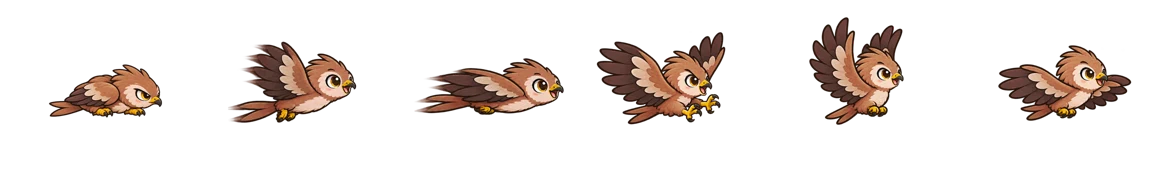
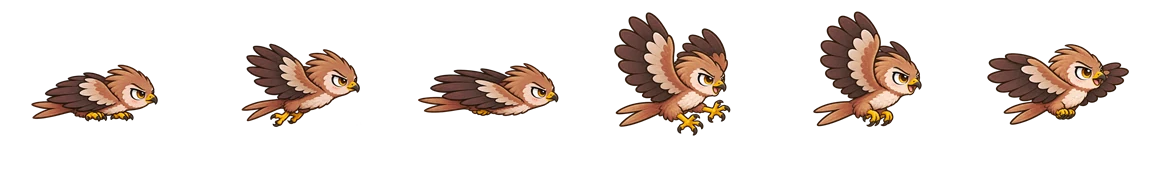
D540：撲擊海漂打擊感加重（GPT 1505）——小鳶撲擊換 v3 臉，撲出時身後拉出速度線，命中加撞擊爆圈 4 格（蓋在小鳶上）與大水花 4 格，三連撲畫面白閃，命中停頓 0.08→0.1 秒。 (#655)
Claude-Session: https://claude.ai/code/session_01HH7aCh2DkeBgrqbKrCUAfc

diff --git a/games/pounce/index.html b/games/pounce/index.html
@@ -67,7 +67,11 @@ const OBJ = { crate: { r: 30, frag: 'crate' }, big: { r: 44, frag: 'crate_large'
 const OIMG = { crate: load('obj_crate.webp'), big: load('obj_crate_large.webp'), bigc: load('obj_crate_large_cracked.webp'), bottles: load('obj_bottles.webp'), net: load('obj_net.webp'), foam: load('obj_foam.webp'), wood: load('obj_driftwood.webp') };
 const FRAG = {}; for (const f of ['crate', 'crate_large', 'bottles', 'net', 'foam', 'driftwood']) FRAG[f] = [0, 1, 2, 3].map((i) => load('frag_' + f + '_' + i + '.webp'));
 const BG = load('bg_sea.webp');
-const CFG = { glide: 300, range: 150, dash: 0.15, kiteH: 118, hitStop: 0.08, comboWin: 1.4 };
+/* D540：打擊感特效（GPT 1505）：撞擊爆圈 4 格（基準 128,128）、大水花 4 格（基準 128,184）、速度線（基準 240,64 向左拉長） */
+const FX = { impact: { img: load('fx_impact.webp'), n: 4, ax: 0.5, ay: 0.5 }, splash: { img: load('fx_splash_big.webp'), n: 4, ax: 0.5, ay: 184 / 256 } }, SPEED = load('fx_speedline.webp');
+let fxs = [];
+function fx(k, x, y, size, dur) { if (calm && k === 'impact') { size *= 0.7; } fxs.push({ k, x, y, size, dur, t: 0 }); }
+const CFG = { glide: 300, range: 150, dash: 0.15, kiteH: 118, hitStop: 0.1, comboWin: 1.4 };      /* D540：命中停頓 0.08→0.1 秒 */
 /* 每段：x,y 為畫面比例；vx,vy 每秒漂多少畫面比例；belt：洋流漂帶（先預告 1.2 秒，一排從一側漂進來） */
 const STAGES = [
   { tip: '按住往木箱拖，看到亮框就放手！', items: [{ k: 'crate', x: 0.5, y: 0.36 }] },
@@ -76,7 +80,7 @@ const STAGES = [
   { tip: '大木箱要撲兩下：第一下撞裂，追上去再一下！', items: [{ k: 'big', x: 0.55, y: 0.36 }, { k: 'net', x: 0.22, y: 0.5, vx: 0.04 }, { k: 'bottles', x: 0.8, y: 0.25, vy: 0.03 }] },
   { tip: '看箭頭！洋流要帶一排海漂過來', belt: { dir: 1, y: 0.33, ks: ['crate', 'bottles', 'foam', 'wood', 'net'], speed: 0.09 }, items: [{ k: 'big', x: 0.5, y: 0.55 }] }
 ];
-let W = 0, H = 0, dpr = 1, si = 0, items = [], kite = null, touch = null, parts = [], rings = [], floats = [], shake = 0, stop = 0, sound = true, ac = null, playing = false, cleared = 0, pounces = 0, misses = 0, t0 = 0, combo = 0, comboT = 0, bestCombo = 0, belt = null, nid = 0, clearing = false;
+let flashT = 0, W = 0, H = 0, dpr = 1, si = 0, items = [], kite = null, touch = null, parts = [], rings = [], floats = [], shake = 0, stop = 0, sound = true, ac = null, playing = false, cleared = 0, pounces = 0, misses = 0, t0 = 0, combo = 0, comboT = 0, bestCombo = 0, belt = null, nid = 0, clearing = false;
 function fit() { dpr = Math.min(devicePixelRatio || 1, 2); W = innerWidth; H = innerHeight; cv.width = Math.round(W * dpr); cv.height = Math.round(H * dpr); }
 addEventListener('resize', fit); fit();
 function tone(f, d, type, g, slide) { if (!sound) return; try { ac = ac || new (window.AudioContext || window.webkitAudioContext)(); const o = ac.createOscillator(), a = ac.createGain(), n = ac.currentTime; o.type = type || 'sine'; o.frequency.setValueAtTime(f, n); if (slide) o.frequency.exponentialRampToValueAtTime(slide, n + d); a.gain.setValueAtTime(g || 0.1, n); a.gain.exponentialRampToValueAtTime(0.001, n + d); o.connect(a); a.connect(ac.destination); o.start(n); o.stop(n + d); } catch (e) {} }
@@ -86,7 +90,7 @@ let tipT = 0; function tip(t, ms) { const e = $('tip'); e.textContent = t; e.cla
 function hud() { $('st').textContent = '第 ' + (si + 1) + '／' + STAGES.length + ' 段'; $('sc').textContent = '🧹 ' + cleared; const on = Math.min(3, combo); $('combo').querySelectorAll('i').forEach((e, i) => e.classList.toggle('on', i < on)); $('cbt').textContent = combo >= 2 ? '連撲 ×' + combo : ''; }
 function mk(it) { const o = OBJ[it.k]; return { k: it.k, id: nid++, x: it.x, y: it.y, vx: it.vx || 0, vy: it.vy || 0, hp: o.hp || 1, max: o.hp || 1, r: o.r, rot: (Math.random() - 0.5) * 0.4, vr: 0, wob: Math.random() * 6, gone: false, flash: 0 }; }
 function loadStage() { const S = STAGES[si]; items = S.items.map((it) => mk({ ...it, x: it.x * W, y: it.y * H + 40, vx: (it.vx || 0) * W, vy: (it.vy || 0) * H })); belt = S.belt ? { ...S.belt, t: 0, sent: 0 } : null; clearing = false; tip(S.tip, 3400); hud(); }
-function start() { si = 0; cleared = 0; pounces = 0; misses = 0; combo = 0; comboT = 0; bestCombo = 0; t0 = performance.now(); playing = true; $('intro').hidden = true; $('done').hidden = true; kite = { x: W / 2, y: H * 0.78, vx: 0, vy: 0, face: 1, anim: 'idle', at: 0, dash: null, tilt: 0 }; loadStage(); }
+function start() { fxs = []; flashT = 0; si = 0; cleared = 0; pounces = 0; misses = 0; combo = 0; comboT = 0; bestCombo = 0; t0 = performance.now(); playing = true; $('intro').hidden = true; $('done').hidden = true; kite = { x: W / 2, y: H * 0.78, vx: 0, vy: 0, face: 1, anim: 'idle', at: 0, dash: null, tilt: 0 }; loadStage(); }
 function setAnim(a) { if (kite.anim !== a) { kite.anim = a; kite.at = 0; } }
 function nearest() { let best = null, bd = CFG.range; for (const it of items) { if (it.gone) continue; const d = Math.hypot(it.x - kite.x, it.y - kite.y) - it.r * 0.4; if (d < bd) { bd = d; best = it; } } return best; }
 
@@ -103,7 +107,7 @@ function hit(it) {
   combo = comboT > 0 ? combo + 1 : 1; comboT = CFG.comboWin; bestCombo = Math.max(bestCombo, combo);
   const big = combo >= 3;
   stop = calm ? 0 : CFG.hitStop + (big ? 0.05 : 0); shake = calm ? 0 : (it.max > 1 ? 12 : 8) + (big ? 6 : 0); buzz(it.hp > 0 ? 25 : big ? [30, 30, 50] : 40);
-  rings.push({ x: it.x, y: it.y, t: 0, big });
+  rings.push({ x: it.x, y: it.y, t: 0, big }); fx('impact', it.x, it.y, big ? 230 : it.hp > 0 ? 150 : 180, 0.32); fx('splash', it.x, it.y + it.r * 0.5, it.hp > 0 ? 130 : 170, 0.5); if (big && !calm) flashT = 0.12;
   if (it.hp > 0) {      /* 大箱子第一下：被撞退、換裂箱，還要再撲一次 */
     it.vx += nx * 280; it.vy += ny * 280; it.vr = (Math.random() < 0.5 ? -1 : 1) * 5; tone(160, 0.18, 'square', 0.09, 90); noise(0.18, 0.18);
     floats.push({ x: it.x, y: it.y - 56, s: '裂開了！追上去！', t: 0, c: '#FFE17A', big: true }); burst(it.x, it.y, '#C9A06A', 8, nx, ny); splash(it.x, it.y, 6);
@@ -131,8 +135,10 @@ function drawKite(now) {
   else f = A.loop ? Math.floor(kite.at * A.fps) % A.n : Math.min(A.n - 1, Math.floor(kite.at * A.fps));
   const fw = A.img.naturalWidth / A.n, fh = A.img.naturalHeight, s = CFG.kiteH / fh * (kite.dash && kite.dash.k > 0 ? 1.12 : 1), bob = calm || kite.dash ? 0 : Math.sin(now / 240) * 3;
   ctx.fillStyle = 'rgba(0,30,40,.22)'; ctx.beginPath(); ctx.ellipse(kite.x, kite.y + 52, 34, 7, 0, 0, 6.28); ctx.fill();
+  if (kite.dash && kite.dash.k > 0 && !calm && SPEED.complete && SPEED.naturalWidth) { const D = kite.dash, dx = kite.x - D.from.x, dy = kite.y - D.from.y, L = Math.hypot(dx, dy); if (L > 20) { ctx.save(); ctx.translate(kite.x, kite.y); ctx.rotate(Math.atan2(dy, dx)); ctx.globalAlpha = 0.9; ctx.drawImage(SPEED, -(L + 30), -26, L + 40, 52); ctx.restore(); ctx.globalAlpha = 1; } }      /* D540：撲出時身後的速度線，長度＝已衝出的距離 */
   ctx.save(); ctx.translate(kite.x, kite.y + bob); ctx.rotate(kite.tilt); ctx.scale(kite.face * s, s); ctx.drawImage(A.img, f * fw, 0, fw, fh, -96, -106.5, fw, fh); ctx.restore();
 }
+function drawFx(k) { for (const e of fxs) { if (e.k !== k) continue; const F = FX[k]; if (!F.img.complete || !F.img.naturalWidth) continue; const fh = F.img.naturalHeight, f = Math.min(F.n - 1, Math.floor(e.t / e.dur * F.n)); ctx.drawImage(F.img, f * fh, 0, fh, fh, e.x - e.size * F.ax, e.y - e.size * F.ay, e.size, e.size); } }
 function drawObj(it, now, hl) {
   const im = it.k === 'big' && it.hp < it.max ? OIMG.bigc : OIMG[it.k], bob = calm ? 0 : Math.sin(now / 400 + it.wob) * 4, s = it.r * 2.6;
   if (it.flash > 0) it.flash = Math.max(0, it.flash - 1 / 30);
@@ -183,7 +189,9 @@ function frame(now) {
       if (q.k === 'img') { q.rot += q.vr * dt; if (q.im.complete && q.im.naturalWidth) { const sc = q.s / Math.max(q.im.naturalWidth, q.im.naturalHeight) * 1.2; ctx.save(); ctx.translate(q.x, q.y); ctx.rotate(q.rot); ctx.drawImage(q.im, -q.im.naturalWidth * sc / 2, -q.im.naturalHeight * sc / 2, q.im.naturalWidth * sc, q.im.naturalHeight * sc); ctx.restore(); } }
       else { ctx.fillStyle = q.c; ctx.beginPath(); ctx.arc(q.x, q.y, q.r, 0, 6.28); ctx.fill(); } }
     ctx.globalAlpha = 1;
-    drawKite(now);
+    for (let i = fxs.length - 1; i >= 0; i--) { const e = fxs[i]; e.t += rdt; if (e.t >= e.dur) fxs.splice(i, 1); }
+    drawFx('splash'); drawKite(now); drawFx('impact');      // 水花在小鳶下、爆圈在小鳶上
+    if (flashT > 0) { flashT -= rdt; ctx.fillStyle = 'rgba(255,250,230,' + Math.max(0, flashT / 0.12 * 0.35) + ')'; ctx.fillRect(-20, -20, W + 40, H + 40); }      /* D540：三連撲白閃一下 */
     for (let i = floats.length - 1; i >= 0; i--) { const f = floats[i]; f.t += rdt; if (f.t > 1.1) { floats.splice(i, 1); continue; } ctx.globalAlpha = Math.min(1, (1.1 - f.t) * 2); ctx.font = '900 ' + (f.big ? 22 : 16) + 'px "Zen Maru Gothic",sans-serif'; ctx.textAlign = 'center'; ctx.lineWidth = 5; ctx.strokeStyle = 'rgba(20,40,50,.85)'; const y = f.y - f.t * 30; ctx.strokeText(f.s, f.x, y); ctx.fillStyle = f.c; ctx.fillText(f.s, f.x, y); }
     ctx.globalAlpha = 1;
   } else drawBG(now);
